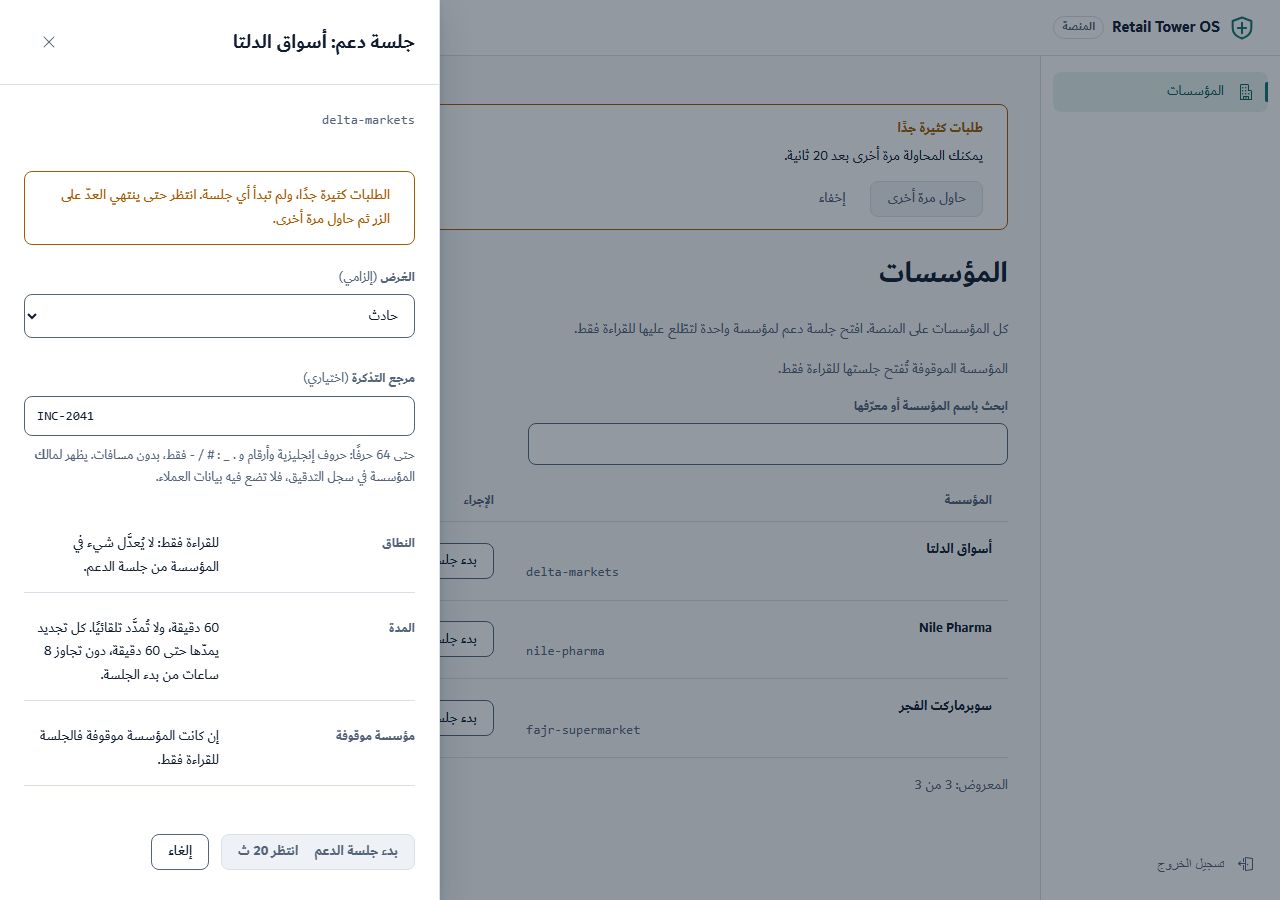
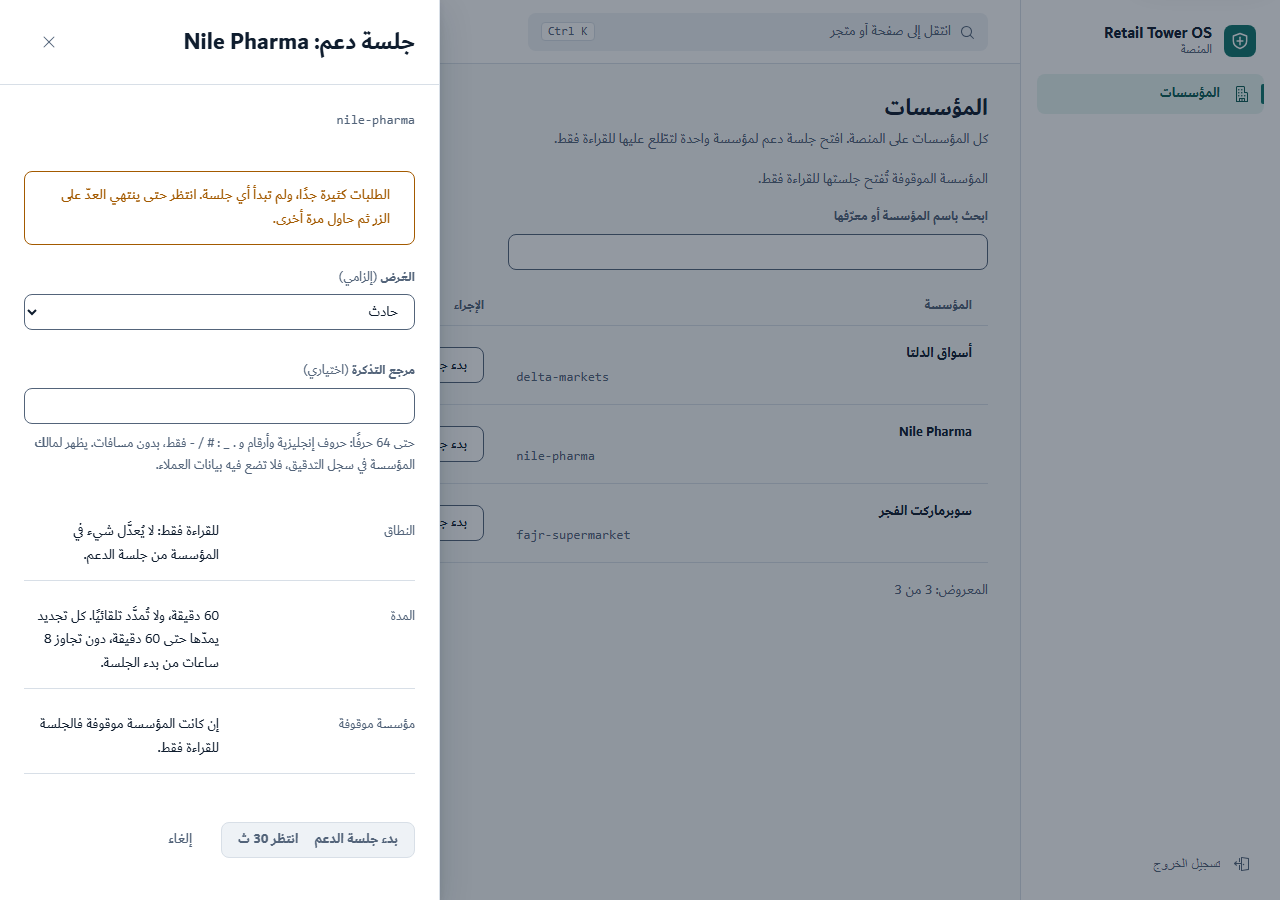
docs: RT-931 recapture frames 62 and 68 after the single rate-limit surface fix
Replaces the reference frames 62 and 68 (1440x900 and 1280x900, Arabic,
light, mocked Backend-Core) with recaptures from main 87249807 and notes
it in the as-built review.

diff --git a/apps/admin-console/docs/design/rt777-platform-console/as-built-review.md b/apps/admin-console/docs/design/rt777-platform-console/as-built-review.md
@@ -104,6 +104,6 @@ console, which is its quietest band.
 | F1 | P1-1 no-access layout | CSS fix, one file. Merged in #100; frame 76 re-captured | RT-929 |
 | F2 | P1-2 "session gone" notice, and End `gone` | Flow and copy (copy needs owner approval) | RT-930 |
 | F3 | Withdrawn: the «المالك» role was a fixture artifact (§0). The «لوحة التحكم» label is a minor observation (§3) | None | None |
-| F4 | P2-1 single rate-limit surface | Shell and platform | RT-931 |
+| F4 | P2-1 single rate-limit surface | Shell and platform. Frames 62 and 68 re-captured from main 87249807 (mocked Backend-Core) | RT-931 |
 | F5 | P2-2, P2-3 and the minor copy items | Directory and drawer polish (copy needs owner approval) | RT-932 |
 | F6 | Tenant status in the directory | Repin to Backend-Core with RT-843, then UI | RT-933 |
